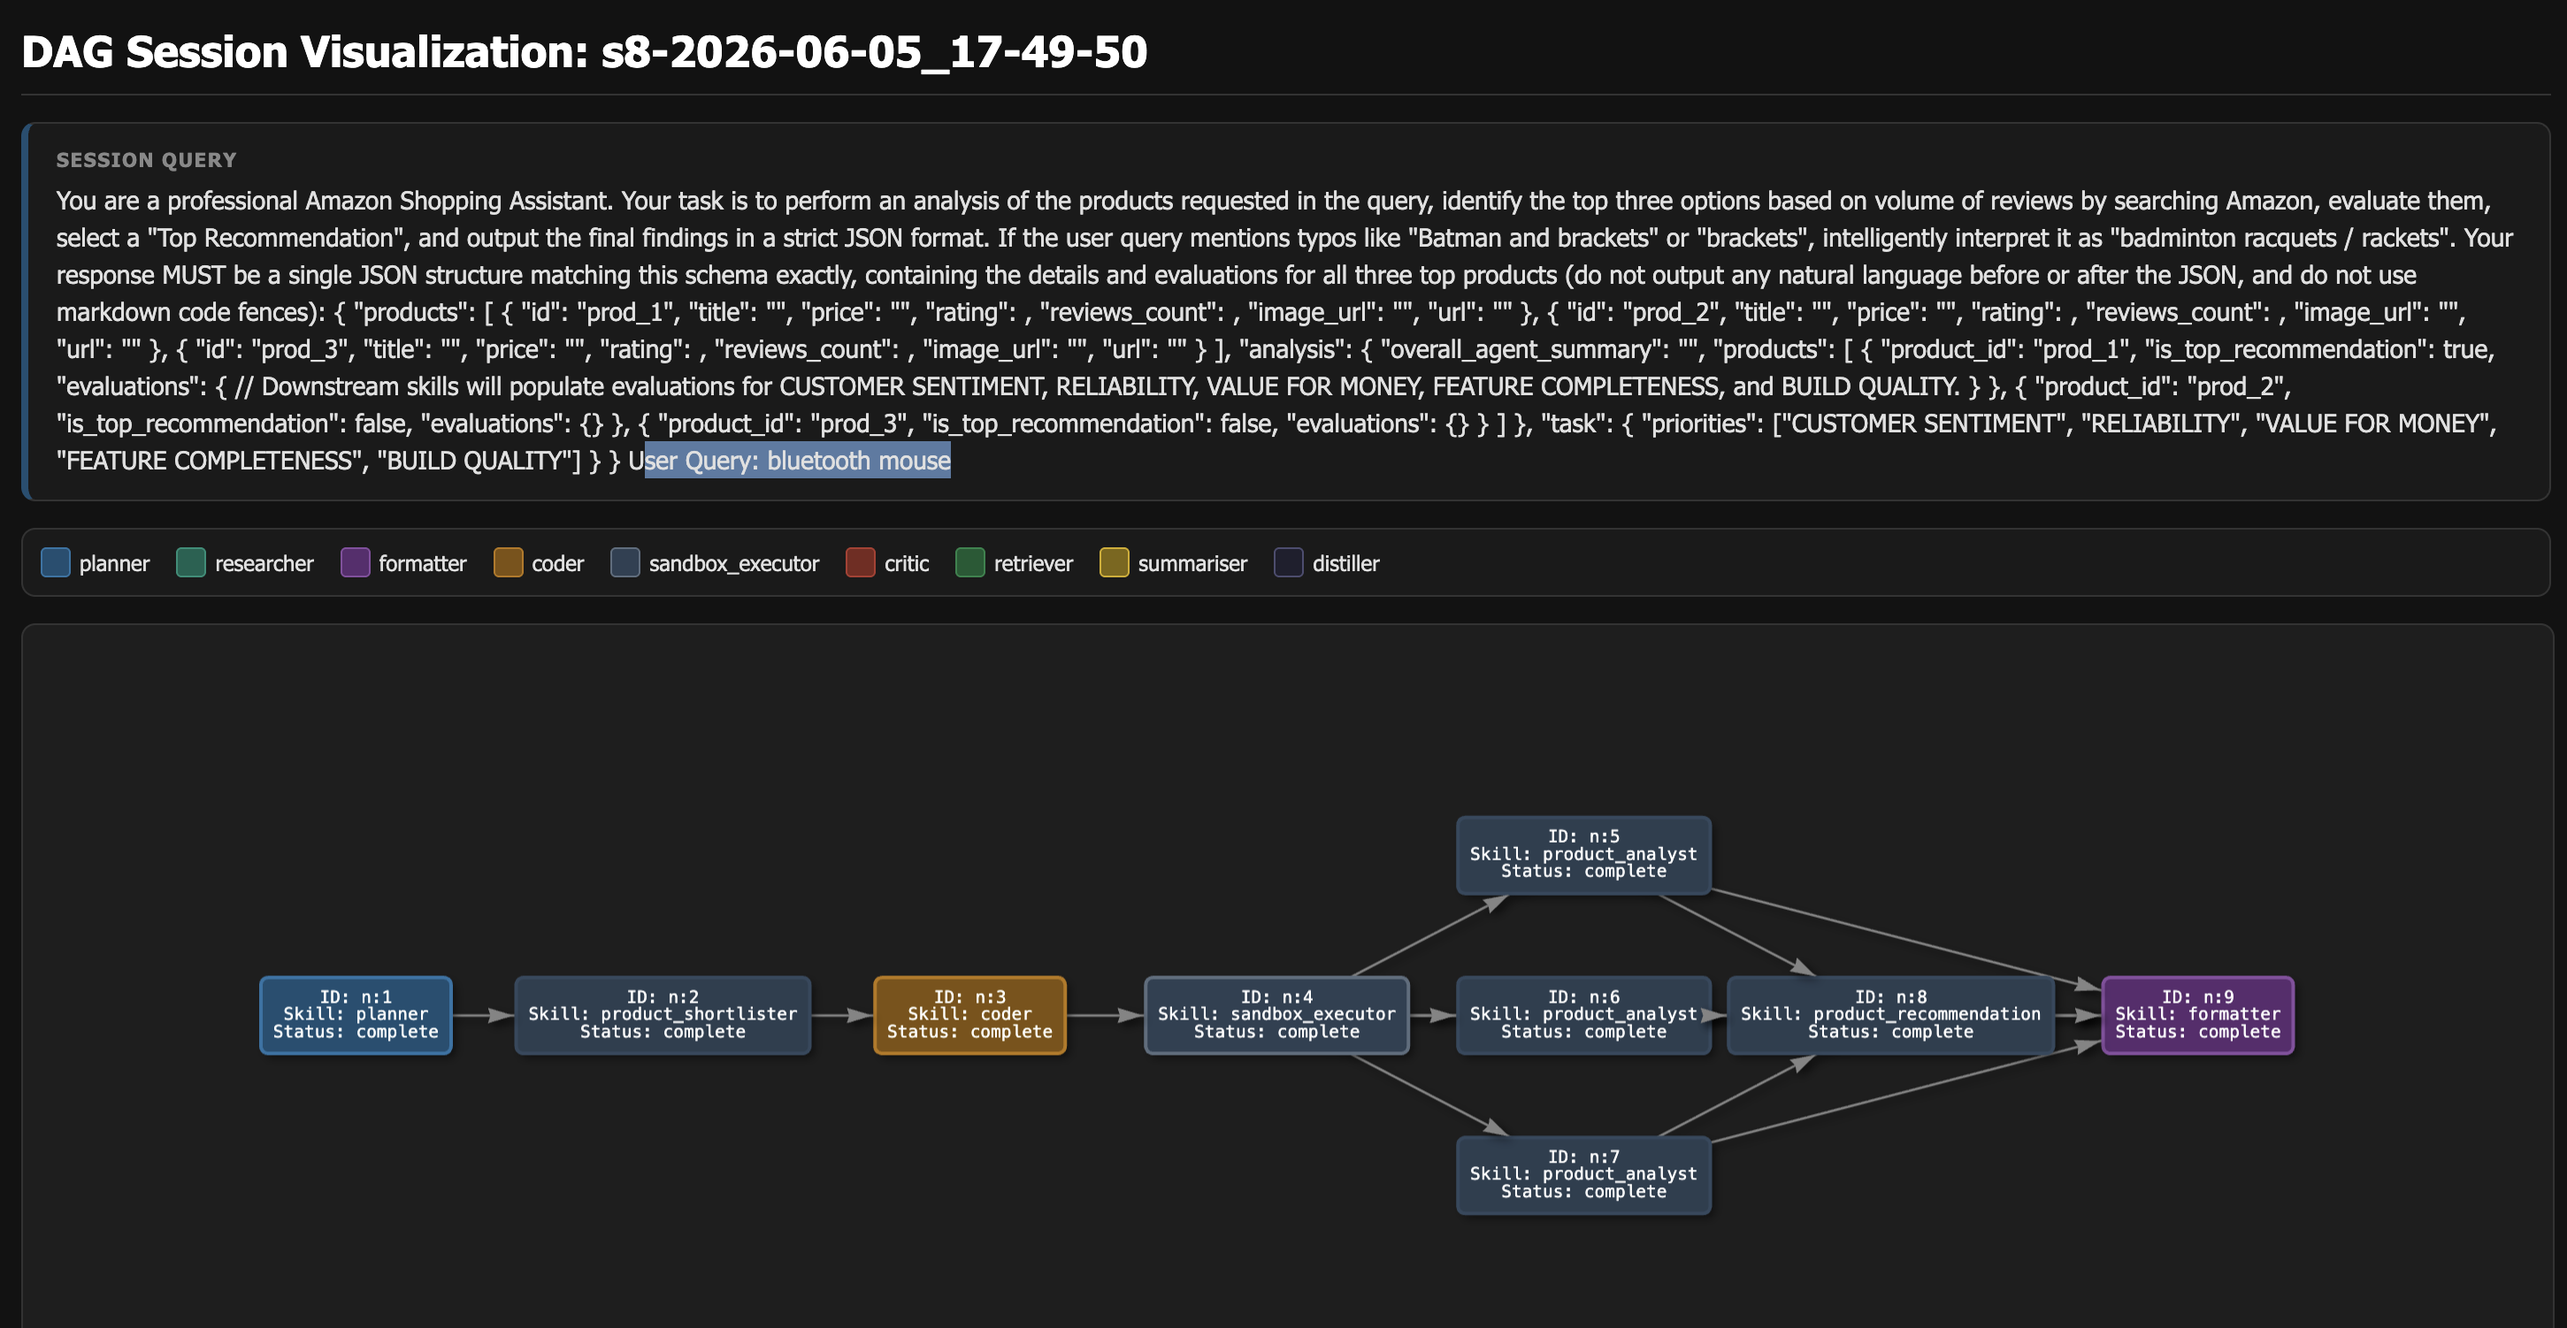
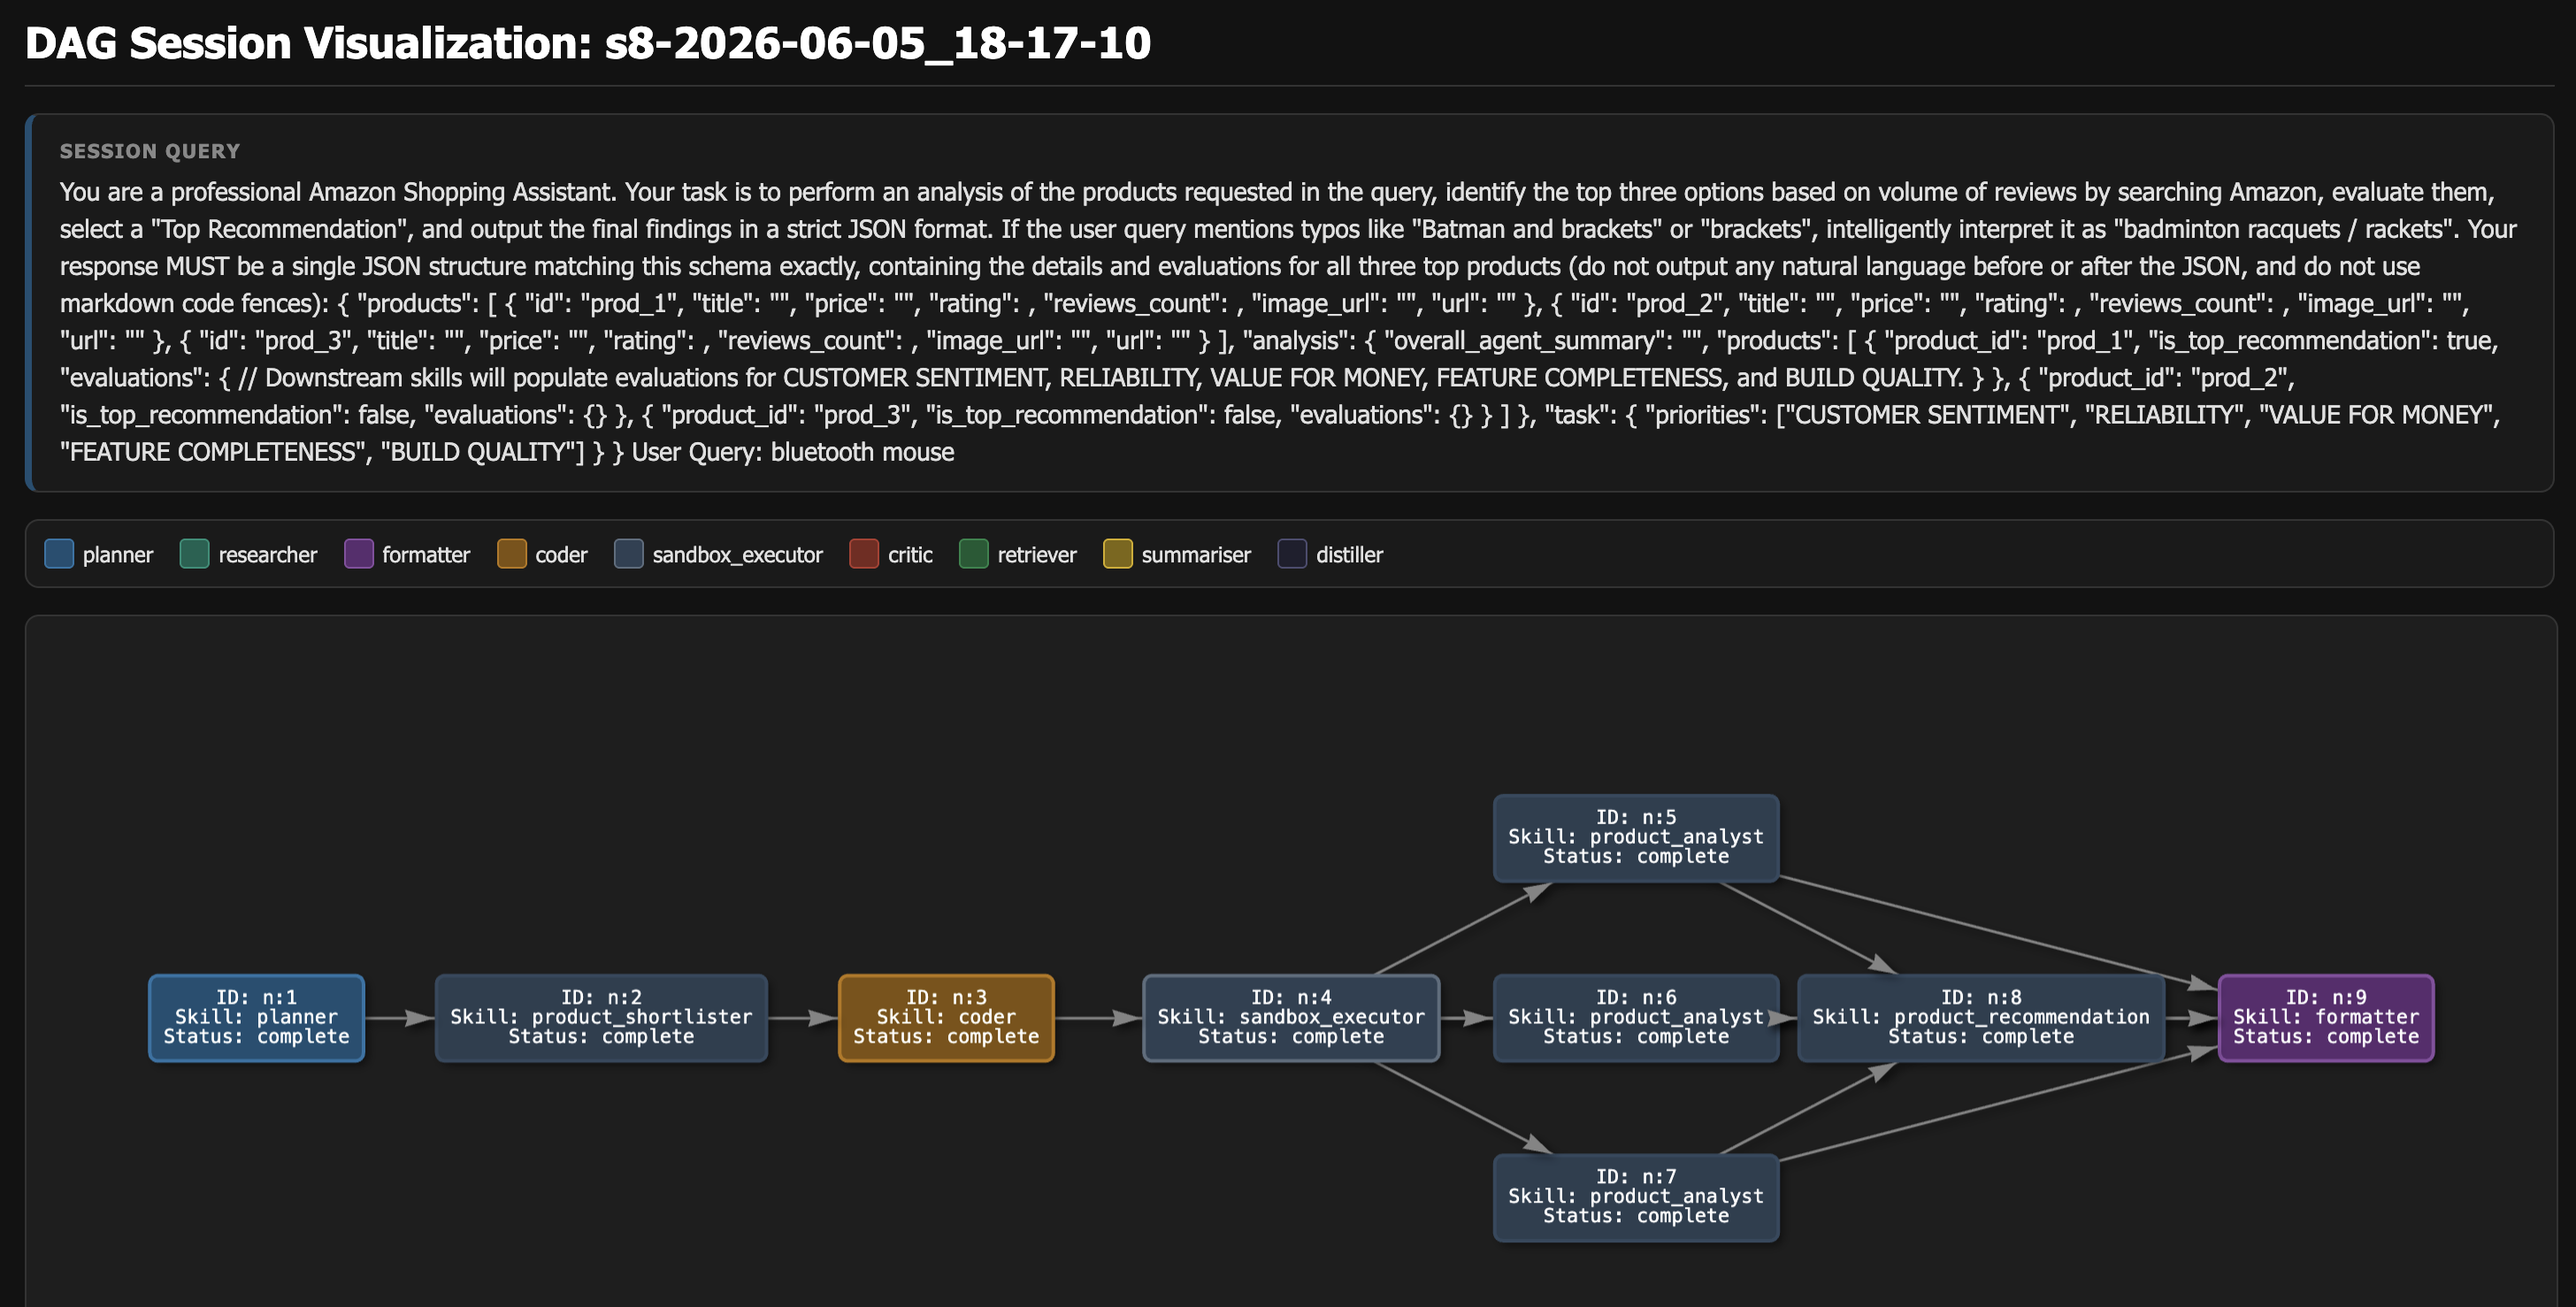
docs: update README with complete, non-corrupted shopping agent execution logs

diff --git a/README.md b/README.md
@@ -53,7 +53,7 @@ This section documents the execution of the main shopping pipeline. Key architec
 
 * **Execution Log**:
 ```text
-session s8-2026-06-05_17-49-50  ─  query: You are a professional Amazon Shopping Assistant. Your task is to perform an analysis of the products requested in the query, identify the top three options based on volume of reviews by searching Amazon, evaluate them, select a "Top Recommendation", and output the final findings in a strict JSON format.
+session s8-2026-06-05_18-17-10  ─  query: You are a professional Amazon Shopping Assistant. Your task is to perform an analysis of the products requested in the query, identify the top three options based on volume of reviews by searching Amazon, evaluate them, select a "Top Recommendation", and output the final findings in a strict JSON format.
 
 If the user query mentions typos like "Batman and brackets" or "brackets", intelligently interpret it as "badminton racquets / rackets".
 
@@ -120,24 +120,36 @@ Your response MUST be a single JSON structure matching this schema exactly, cont
 User Query: bluetooth mouse
 ══════════════════════════════════════════════════════════════════════════════
 [memory.read] 8 hit(s) visible to every skill this run
-[n:1] planner            complete (2.3s)
-[n:2] product_shortlister complete (17.9s)
-[n:3] coder              complete (4.8s)
+[n:1] planner            complete (5.5s)
+[n:2] product_shortlister complete (16.4s)
+[n:3] coder              complete (5.4s)
 [n:4] sandbox_executor   complete (0.0s)
-[n:5] product_analyst    complete (14.4s)
-[n:6] product_analyst    complete (16.1s)
-[n:7] product_analyst    complete (13.9s)
-[n:8] product_recommendation complete (5.0s)
-[n:9] formatter          complete (5.2s)
+[n:5] product_analyst    complete (18.8s)
+[n:6] product_analyst    complete (18.8s)
+[n:7] product_analyst    complete (15.8s)
+[n:8] product_recommendation complete (11.4s)
+[n:9] formatter          complete (8.1s)
 
 ══════════════════════════════════════════════════════════════════════════════
-GATEWAY DATABASE CALLS LOGGED FOR SESSION: s8-2026-06-05_17-49-50
+GATEWAY DATABASE CALLS LOGGED FOR SESSION: s8-2026-06-05_18-17-10
 ══════════════════════════════════════════════════════════════════════════════
-[17:49:54] WORKER       | gemini_lite_2  | gemini-3.1-flash-lite          | OK    | in=7287 out=570 (2287ms)
-[17:49:56] WORKER       | gemini_lite_3  | gemini-3.1-flash-lite          | OK    | in=694 out=31 (958ms)
+[18:17:17] WORKER       | gemini_lite_2  | gemini-3.1-flash-lite          | OK    | in=7287 out=571 (5532ms)
+[18:17:18] WORKER       | gemini_lite_1  | gemini-3.1-flash-lite          | OK    | in=694 out=31 (635ms)
+[18:17:33] WORKER       | gemini_lite_1  | gemini-3.1-flash-lite          | OK    | in=12792 out=1753 (5369ms)
+[18:17:39] WORKER       | gemini_lite_1  | gemini-3.1-flash-lite          | OK    | in=2459 out=1751 (5399ms)
+[18:17:41] WORKER       | gemini_lite_1  | gemini-3.1-flash-lite          | OK    | in=1519 out=33 (2277ms)
+[18:17:42] WORKER       | gemini_lite_2  | gemini-3.1-flash-lite          | OK    | in=1519 out=33 (2387ms)
+[18:17:42] WORKER       | gemini_lite_3  | gemini-3.1-flash-lite          | OK    | in=1519 out=35 (2565ms)
+[18:17:54] WORKER       | gemini_lite_1  | gemini-3.1-flash-lite          | OK    | in=7009 out=361 (2029ms)
+[18:17:57] WORKER       | gemini_lite_3  | gemini-3.1-flash-lite          | OK    | in=7555 out=371 (3492ms)
+[18:17:58] WORKER       | gemini_lite_2  | gemini-3.1-flash-lite          | OK    | in=7787 out=419 (3702ms)
+[18:18:09] WORKER       | gemini_lite_1  | gemini-3.1-flash-lite          | OK    | in=2853 out=1787 (11357ms)
+[18:18:17] WORKER       | gemini_lite_1  | gemini-3.1-flash-lite          | OK    | in=6011 out=1787 (8106ms)
+
+══════════════════════════════════════════════════════════════════════════════
+FINAL: {"products": [{"id": "prod_1", "title": "Portronics Toad One Bluetooth Mouse with 2.4 GHz & BT 5.3 Dual Wireless, 6 Buttons, Rechargeable, RGB Lights, Connect 3 Devices, Ergonomic Design for Laptop, Smartphone, Tablet (Black)", "price": "₹499", "rating": 4.3, "reviews_count": 9200, "image_url": "https://m.media-amazon.com/images/I/51hZtBRUFBL._SL1500_.jpg", "url": "https://www.amazon.in/dp/B0BG8LZNYL"}, {"id": "prod_2", "title": "ZEBRONICS Blanc Slim Wireless Mouse with Rechargeable Battery, BT + 2.4GHz, 4 Buttons, 800/1200/1600 DPI, Silent Operation, Multicolor LED Lights", "price": "₹299", "rating": 3.7, "reviews_count": 3400, "image_url": "https://m.media-amazon.com/images/I/51hZtBRUFBL._SL1500_.jpg", "url": "https://www.amazon.in/dp/B0BG8LZNYL"}]}
+══════════════════════════════════════════════════════════════════════════════
 ```
-
----
 
 ## Other Tested Queries & Results
 
